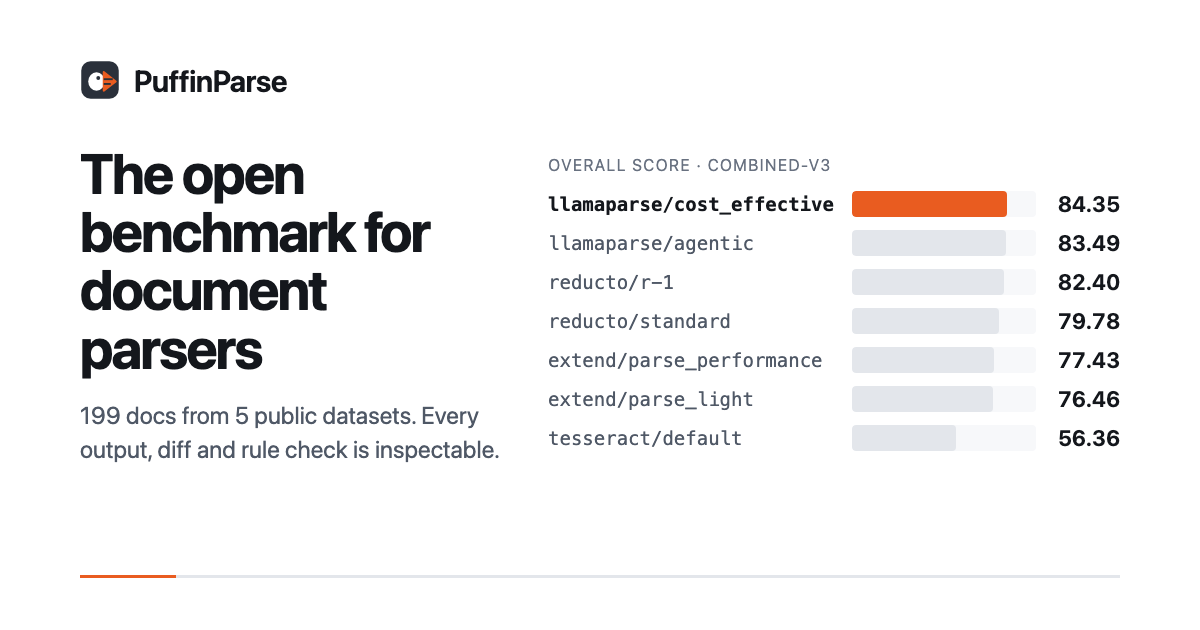
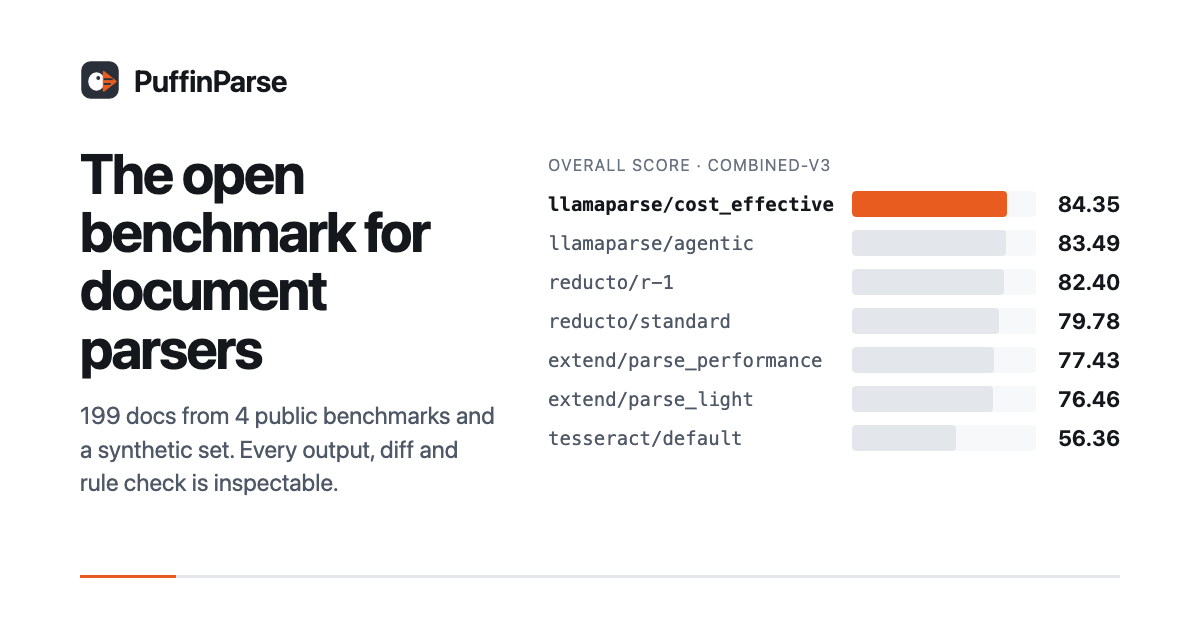
Fix phone layouts and accuracy slips found in the launch review
- Landing and the benchmark viewer scrolled sideways at 375px: the hidden code tabs grew the
  grid, the viewer's GitHub button escaped its hide-sm rule, and long inline code on ~24 docs
  pages did not wrap. The landing shows an icon-only GitHub button on phones and the viewer
  drops the keyboard-shortcuts button there.
- The hero cycled extract- and OCR-only models through a parse() call; it now lists only
  models that serve parse.
- "Ground truth is exact by construction" and "Overall = mean(char_similarity)" were true only
  for the synthetic set; the copy now matches benchmark/README.md. The landing caption names
  DP-Bench and the reproduce snippet uses combined-v3, matching the table above it.
- Dead links to Reducto, Extend and PaddleOCR docs point at their current pages; the docs.rs
  link waits for the crates.io release.
- The viewer gets a canonical link and a sitemap entry; the docs home title says Docs.

Changed region(s): [[0.0617, 0.6333, 0.4317, 0.7841]]

diff --git a/website/landing/index.html b/website/landing/index.html
@@ -224,8 +224,9 @@ doc.raw["result"]["chunks"][0]["blocks"][0]["bbox"]["left"]</code></pre>
   <div class="lp-wrap">
     <p class="lp-kicker">Open benchmark</p>
     <h2>Pick a provider on evidence, not marketing.</h2>
-    <p class="lp-sub">Ground truth is exact by construction — the documents are rendered from the
-      same source as the truth files. The metrics are deterministic text comparisons with no LLM
+    <p class="lp-sub">Public benchmark pages are scored against their own published truth, and the
+      synthetic set is exact by construction (rendered from the same source as its truth). The
+      metrics are deterministic text comparisons with no LLM
       judge, provider result caches are disabled, and every per-document output is committed next
       to the run so you can verify any number yourself.</p>
     <div class="lp-board">
@@ -234,12 +235,12 @@ doc.raw["result"]["chunks"][0]["blocks"][0]["bbox"]["left"]</code></pre>
         <tbody id="lp-board-body">{{LEADERBOARD_ROWS}}</tbody>
       </table>
     </div>
-    <p class="lp-caption">{{LEADERBOARD_DATASET}} (synthetic, ParseBench, olmOCR-bench and
-      OmniDocBench pages, each scored by its own truth) · higher Overall is better</p>
+    <p class="lp-caption">{{LEADERBOARD_DATASET}} (synthetic, ParseBench, olmOCR-bench,
+      OmniDocBench and DP-Bench pages, each scored by its own truth) · higher Overall is better</p>
     <div class="lp-code">
-      <pre><code class="language-bash">puffinparse bench run --dataset benchmark/datasets/combined-v2 \
+      <pre><code class="language-bash">puffinparse bench run --dataset benchmark/datasets/combined-v3 \
     --models reducto/r-1 extend/parse_light llamaparse/cost_effective --dry-run
-puffinparse bench report benchmark/results/2026-09-24-combined-v2.json</code></pre>
+puffinparse bench report benchmark/results/2026-09-25-combined-v3.json</code></pre>
     </div>
     <p class="lp-note">The results viewer opens every run document by document: the input, the
       ground truth, each model's raw output, a word-level diff and the commands to reproduce that

diff --git a/website/assets/landing.css b/website/assets/landing.css
@@ -172,8 +172,8 @@ mark.lp-diff { background: var(--lp-soft); color: var(--lp-ink); border-radius: 
   border: 1px solid var(--line); background: var(--bg); color: var(--fg-dim); cursor: pointer;
   transition: border-color .15s, color .15s, background .15s; }
 .lp-tab:hover { border-color: var(--lp-accent); color: var(--fg); }
-.lp-panels { display: grid; }
-.lp-panel { grid-area: 1 / 1; opacity: 0; visibility: hidden; transition: opacity .18s; }
+.lp-panels { display: grid; grid-template-columns: minmax(0, 1fr); }
+.lp-panel { grid-area: 1 / 1; min-width: 0; opacity: 0; visibility: hidden; transition: opacity .18s; }
 #lp-tab0:checked ~ .lp-tablist [for="lp-tab0"], #lp-tab1:checked ~ .lp-tablist [for="lp-tab1"],
 #lp-tab2:checked ~ .lp-tablist [for="lp-tab2"], #lp-tab3:checked ~ .lp-tablist [for="lp-tab3"] {
   background: var(--lp-soft); border-color: var(--lp-line); color: var(--lp-ink); font-weight: 600; }
@@ -276,6 +276,8 @@ mark.lp-diff { background: var(--lp-soft); color: var(--lp-ink); border-radius: 
   .lp-btn { flex: 1 1 auto; text-align: center; }
   .lp .top a.plain { font-size: .78rem; }
   .lp .topin { gap: .6rem; padding: 0 1.15rem; }
+  .lp .gh-star [data-gh-label], .lp .gh-star .gh-count { display: none; }  /* icon only on phones */
+  .lp .gh-star { padding-inline: .45rem; }
   .lp-hero-demo { margin-top: 4rem; }
   .lp-perch { top: -70px; right: 1.25rem; }
   .lp-perch .puffin { width: 74px; }

diff --git a/website/assets/style.css b/website/assets/style.css
@@ -64,6 +64,8 @@ article a:hover { color: var(--scan-ink); text-decoration-color: currentColor; }
 
 main { padding: 2.25rem 0 5rem; min-width: 0; display: grid; grid-template-columns: minmax(0, 76ch) var(--toc); gap: 2.5rem; }
 article { min-width: 0; }
+/* Long identifiers and bare URLs must wrap on phones instead of widening the page. */
+article :not(pre) > code, article a { overflow-wrap: anywhere; }
 .toc { padding-top: .35rem; }
 .toc nav { position: sticky; top: 5rem; max-height: calc(100vh - 7rem); overflow-y: auto; }
 .toc strong { display: block; font-size: .7rem; text-transform: uppercase; letter-spacing: .09em;

diff --git a/website/og/card-benchmark.html b/website/og/card-benchmark.html
@@ -33,7 +33,7 @@
     <div>
       <div class="word"><img src="../assets/mark.svg" alt="">PuffinParse</div>
       <h1>The open benchmark for document parsers</h1>
-      <p>199 docs from 5 public datasets. Every output, diff and rule check is inspectable.</p>
+      <p>199 docs from 4 public benchmarks and a synthetic set. Every output, diff and rule check is inspectable.</p>
     </div>
     <div class="board">
       <div class="head">Overall score · combined-v3</div>

diff --git a/benchmark/site/src/styles.css b/benchmark/site/src/styles.css
@@ -1534,8 +1534,10 @@ dialog h2 {
   h1 {
     font-size: var(--t-lg);
   }
-  .hide-sm {
-    display: none;
+  .hide-sm,
+  .gh-star.hide-sm,
+  #help-btn {
+    display: none; /* keyboard shortcuts: no use on a phone */
   }
   .brand-sub {
     display: none;

diff --git a/website/build.py b/website/build.py
@@ -600,8 +600,8 @@ def leaderboard_card(site: Site) -> str:
     )
     return f"""<section class="card">
 <h2 id="leaderboard-strip">Open benchmark<a class="headerlink" href="#leaderboard-strip">#</a></h2>
-<p>Accuracy, latency and cost, measured through the same client you would use. Exact ground truth,
-deterministic metrics, no LLM judge.</p>
+<p>Accuracy, latency and cost, measured through the same client you would use. Published ground
+truth, deterministic metrics, no LLM judge.</p>
 <div class="table-wrap"><table>
 <thead><tr><th>#</th><th>Model</th><th>Overall</th><th>p50 latency</th><th>$/1k pages</th></tr></thead>
 <tbody>{cells}</tbody></table></div>
@@ -763,6 +763,8 @@ def landing_leaderboard(site: Site, limit: int = 7) -> tuple[str, str]:
 def landing_html(site: Site, providers: list[dict[str, Any]]) -> str:
     template = (WEB / "landing" / "index.html").read_text(encoding="utf-8")
     models = [m["qualified"] for p in providers for m in p["models"]]
+    # The hero cycles model strings inside a parse() call, so only models that serve parse.
+    parse_models = [m["qualified"] for p in providers for m in p["models"] if "parse" in m["modes"]]
     rows, dataset = landing_leaderboard(site)
     description = (
         f"{site.tagline} Parse, OCR and schema extraction across {len(providers)} providers and "
@@ -783,10 +785,10 @@ def landing_html(site: Site, providers: list[dict[str, Any]]) -> str:
         "JSONLD": landing_jsonld(site, description),
         "DESCRIPTION": html.escape(description, quote=True),
         "THEME_BUTTON": THEME_BUTTON,
-        "MODELS": html.escape(json.dumps(models), quote=True),
+        "MODELS": html.escape(json.dumps(parse_models), quote=True),
         "SCAN_LINES": html.escape(json.dumps(list(SCAN_OUTPUT)), quote=True),
         "SCAN_STATIC": html.escape("\n".join(SCAN_OUTPUT)),
-        "DEFAULT_MODEL": models[0] if models else "reducto/standard",
+        "DEFAULT_MODEL": parse_models[0] if parse_models else "reducto/standard",
         "N_PROVIDERS": str(len(providers)),
         "N_MODELS": str(len(models)),
         "N_MODES": str(len(MODES)),
@@ -849,7 +851,7 @@ def page_html(site: Site, page: Page, pages: list[Page]) -> str:
         if toc
         else "<aside></aside>"
     )
-    title = page.title if page.home else f"{page.title} · {site.title}"
+    title = f"Docs · {site.title}" if page.home else f"{page.title} · {site.title}"
     canonical = site.absolute(site.url(page.slug))
     md_url = site.url(page.slug, md=True)
     edit = site.blob(page.source)
@@ -959,7 +961,7 @@ def build(base: str, out_dir: Path, site_url: str, docs_prefix: str = "docs") ->
     by_source = {p.source: p for p in pages}
     by_slug = {p.slug: p for p in pages}
     providers = read_providers()
-    models = [m["qualified"] for p in providers for m in p["models"]]
+    models = [m["qualified"] for p in providers for m in p["models"] if "parse" in m["modes"]]
     md = make_md()
 
     if out_dir.exists():
@@ -1251,11 +1253,17 @@ def build_benchmark_viewer(site: Site, out: Path) -> bool:
             site.absolute(site.viewer_url),
             OG_IMAGE_BENCHMARK,
         )
+        tags += f'\n<link rel="canonical" href="{site.absolute(site.viewer_url)}">'
         tags += "\n" + benchmark_jsonld(site)
         text = index.read_text(encoding="utf-8")
         stars = f'<script src="{site.base}stars.js" defer></script>'
         head = "\n".join(part for part in (tags, ANALYTICS, stars) if part)
         index.write_text(text.replace("</head>", head + "\n</head>", 1), encoding="utf-8")
+        sitemap = out / "sitemap.xml"
+        if sitemap.is_file():  # written by build() before the viewer exists
+            entry = f"<url><loc>{site.absolute(site.viewer_url)}</loc></url></urlset>"
+            text = sitemap.read_text(encoding="utf-8")
+            sitemap.write_text(text.replace("</urlset>", entry, 1), encoding="utf-8")
     return True
 
 

diff --git a/README.md b/README.md
@@ -496,7 +496,7 @@ let data = extract(req.citations(true)).await?.data;
 
 ## Benchmark
 
-PuffinParse ships an open, reproducible benchmark. Ground truth is exact by construction (the documents are rendered from the same source as the truth files), metrics are deterministic text comparisons, and every run records the dataset hash, model, latency and cost.
+PuffinParse ships an open, reproducible benchmark. Pages from public benchmarks are scored against their own published truth or rules, the synthetic set's truth is exact by construction (its documents are rendered from the same source as the truth files), metrics are deterministic text comparisons with no LLM judge, and every run records the dataset hash, model, latency and cost.
 
 ```bash
 python benchmark/generate_synthetic.py                       # regenerate the dataset (byte-reproducible)
@@ -508,7 +508,7 @@ puffinparse bench score prediction.md truth.md                   # metrics for o
 
 Metrics (after NFKC + markdown stripping + whitespace collapsing, case-insensitive by default):
 
-- **Overall** = `100 × mean(char_similarity)`, where `char_similarity = 1 − levenshtein / max(len)`
+- **Overall** = `100 ×` the mean of each document's headline metric: `char_similarity` (`1 − levenshtein / max(len)`) for transcripts, the table score for table-only pages, the rule pass rate for rule-checked pages; a failed call scores 0 (details in [`benchmark/README.md`](https://github.com/ajinkyashejul/puffinparse/blob/main/benchmark/README.md))
 - **CER**, **WER**, **word F1** (bag-of-words precision / recall)
 - **Order**: Kendall-τ-style agreement of shared line order (reading order)
 - **Table**: character similarity restricted to markdown table rows

diff --git a/docs/providers/extend.md b/docs/providers/extend.md
@@ -33,7 +33,7 @@ triggers its own parse run and is billed for both, which is why the extract pric
 two line items; re-extracting a file Extend has already parsed bills only the extraction.
 
 Credits are the billing unit; pay-as-you-go is $0.0125/credit (Scale: $0.01). Prices above are the PAYG
-list rate from <https://docs.extend.ai/credits>, used for `ParseResponse.cost_usd`. `parse_auto` is priced
+list rate from <https://docs.extend.ai/general/how-credits-work>, used for `ParseResponse.cost_usd`. `parse_auto` is priced
 at the performance rate, so its estimate is an upper bound. Surcharges PuffinParse does not model: agentic
 text/table correction +1 credit per triggered page, priority parsing ×2, advanced Excel parsing
 3 credits / 1 000 non-empty cells.
@@ -424,7 +424,7 @@ puffinparse.ocr("book.xlsx", model="extend/parse_performance",
 
 * Docs home: <https://docs.extend.ai> · index: <https://docs.extend.ai/llms.txt> ·
   compact platform context: <https://docs.extend.ai/agents.md>
-* Credits and pricing: <https://docs.extend.ai/credits>
+* Credits and pricing: <https://docs.extend.ai/general/how-credits-work>
 * API versions in use: `2026-02-09` (current), `2025-04-21`, `2024-12-23`, `2024-11-14`, `2024-07-30`,
   `2024-02-01` — pin one with `x-extend-api-version`.
 * Webhooks for `parse_run.processed` / `parse_run.failed` (HMAC-SHA256 over `v0:{timestamp}:{body}`)

diff --git a/docs/providers/reducto.md b/docs/providers/reducto.md
@@ -378,7 +378,7 @@ puffinparse.ocr("locked.pdf", model="reducto/standard",
 
 * Docs home: <https://docs.reducto.ai> · agent guide: <https://docs.reducto.ai/agent-guide.md> ·
   index: <https://docs.reducto.ai/llms.txt>
-* Parse API reference: <https://docs.reducto.ai/api-reference/endpoint/parse>
+* Parse API reference: <https://docs.reducto.ai/parse/overview>
 * Legacy parse schema: <https://docs.reducto.ai/api-reference/legacy/parse>
 * Credit usage / pricing: <https://docs.reducto.ai/reference/credit-usage> · <https://reducto.ai/pricing>
 * Error codes: <https://docs.reducto.ai/reference/error-codes>

diff --git a/docs/providers/paddleocr.md b/docs/providers/paddleocr.md
@@ -141,4 +141,4 @@ puffinparse.parse("report.pdf", model="paddleocr", base_url="http://gpu-box:8081
 
 * OCR pipeline, serving API: <https://www.paddleocr.ai/latest/en/version3.x/pipeline_usage/OCR.html>
 * PP-StructureV3, serving API: <https://www.paddleocr.ai/latest/en/version3.x/pipeline_usage/PP-StructureV3.html>
-* Serving deployment guide: <https://www.paddleocr.ai/latest/en/version3.x/deployment/serving.html>
+* Serving deployment guide: <https://www.paddleocr.ai> (Deployment → Serving)

diff --git a/website/pages/rust.md b/website/pages/rust.md
@@ -6,7 +6,7 @@ the benchmark metrics. The Python SDK and the CLI are thin wrappers over it.
 `#![forbid(unsafe_code)]`, no vendor SDK crates — every provider is spoken to over plain HTTPS with
 `reqwest` and `tokio`.
 
-API reference: [docs.rs/puffinparse-core](https://docs.rs/puffinparse-core) *(published on the first crates.io release)*.
+API reference: docs.rs/puffinparse-core once the crate is on crates.io.
 Until then, `cargo doc -p puffinparse-core --open` from a clone.
 
 ## Install
